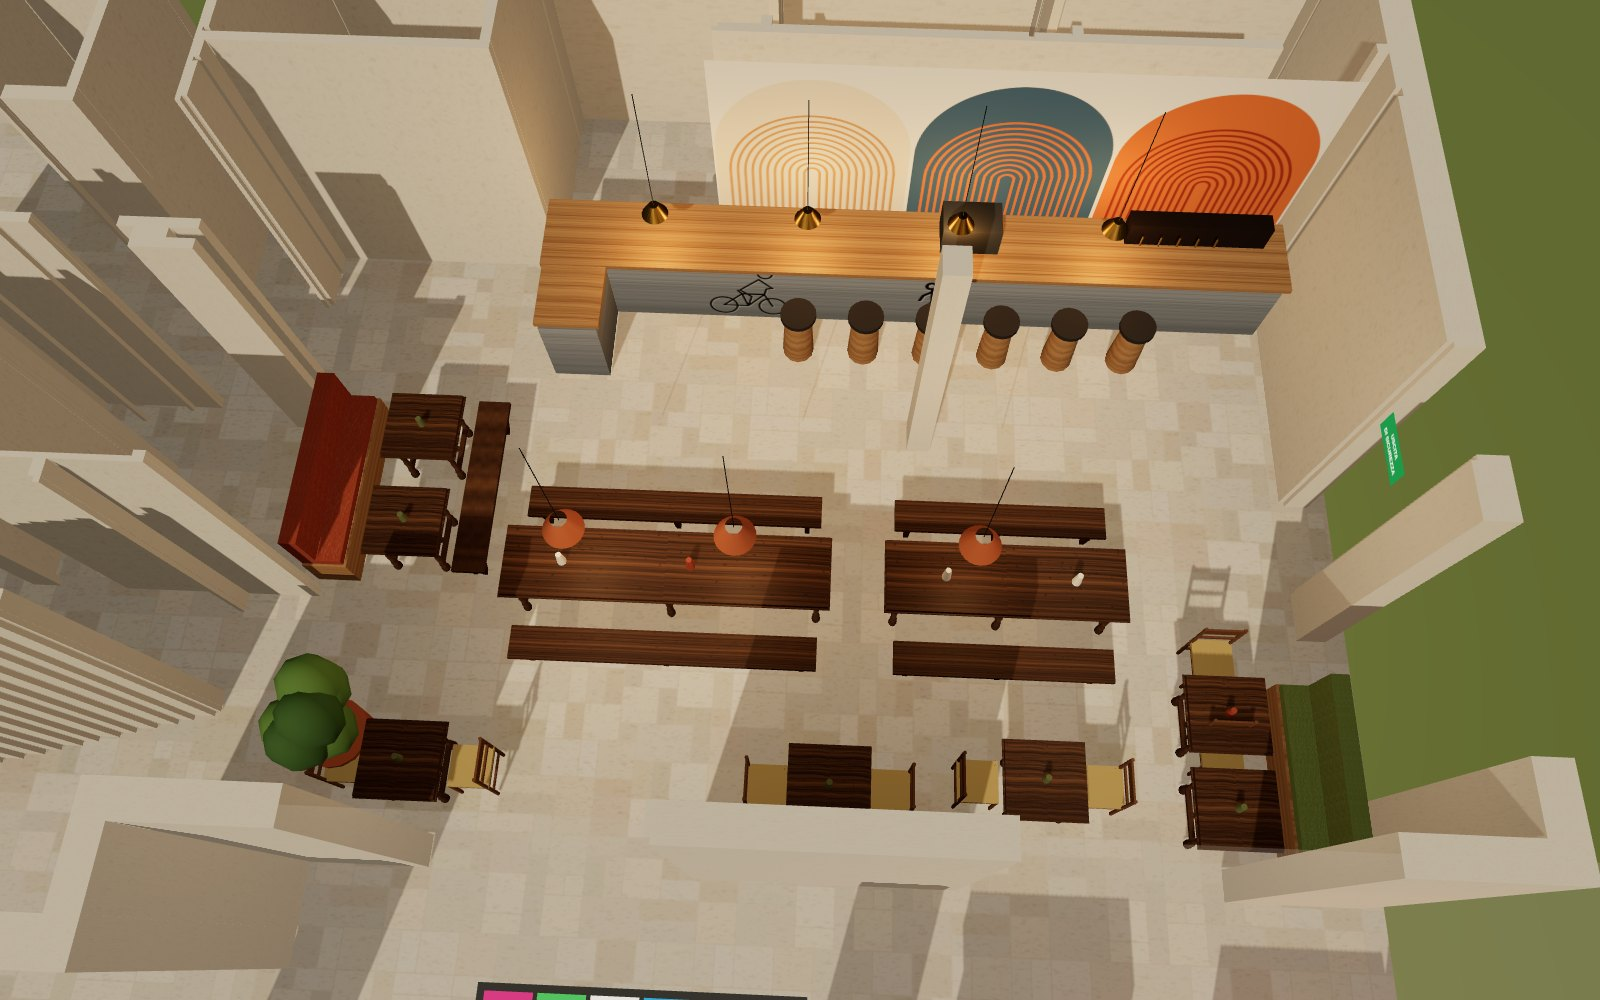
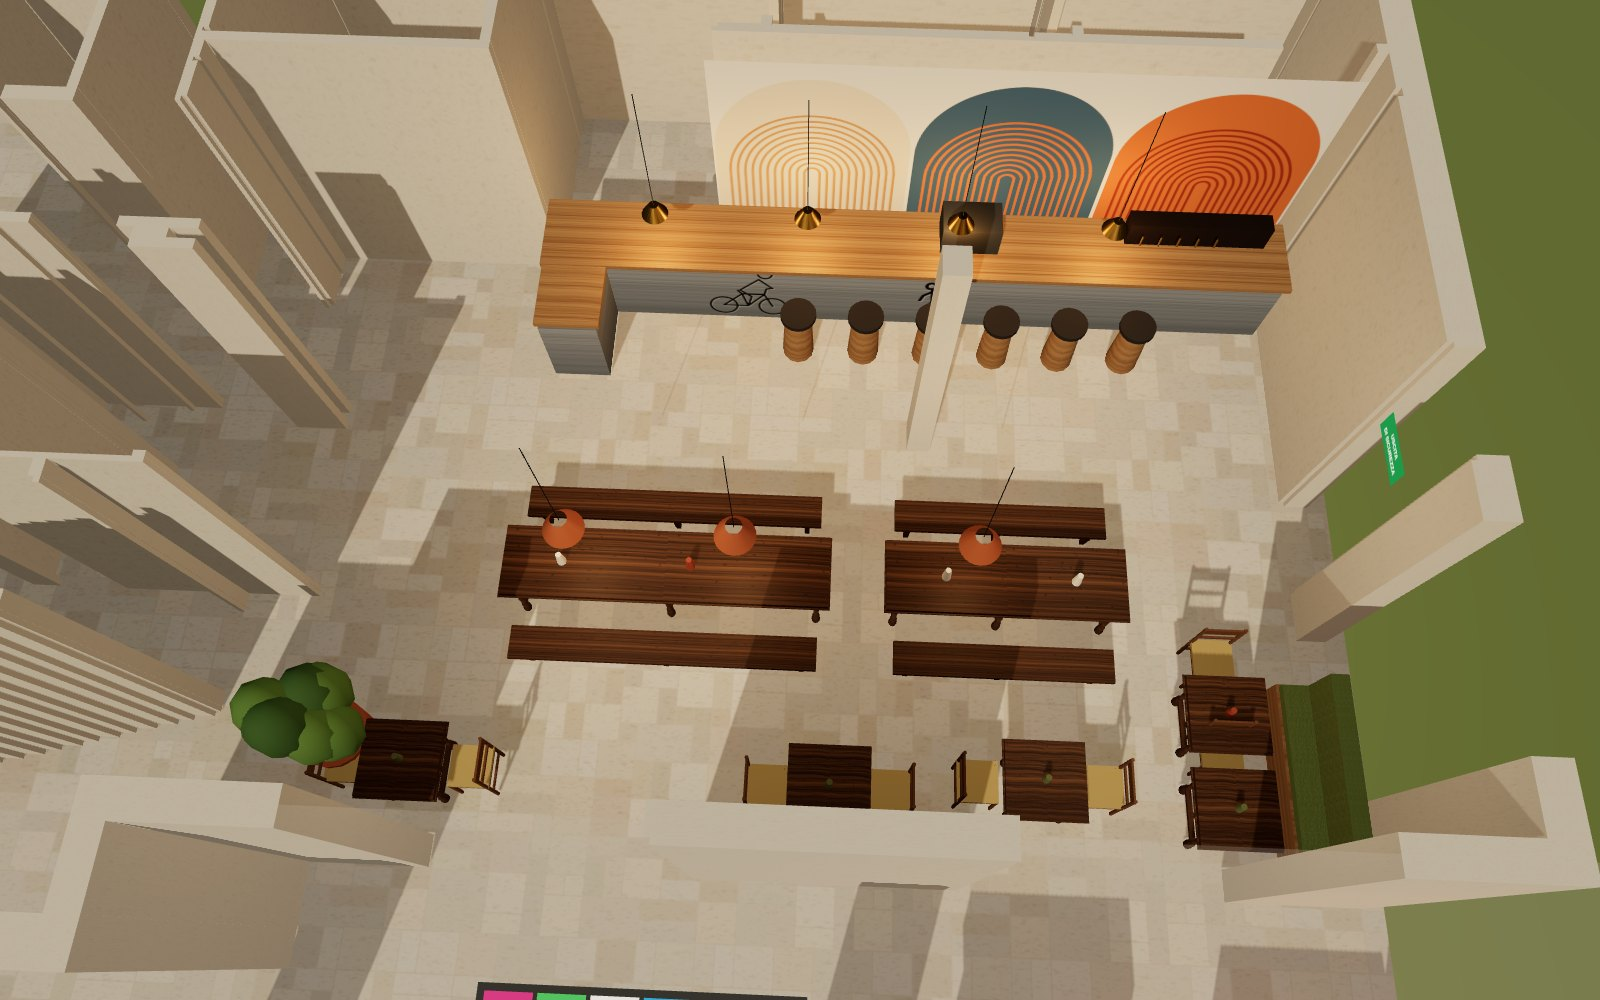
Sala: tolta la seduta rossa davanti ai bagni; pianta con i bagni segnati
Claude-Session: https://claude.ai/code/session_01QZXxqty357DcebAAL5Vpaf

Changed region(s): [[0.1562, 0.341, 0.3438, 0.589], [0.125, 0.651, 0.25, 0.775]]

diff --git a/render-3d/sala-tavoli-antichi/sorgente/pianoterra.js b/render-3d/sala-tavoli-antichi/sorgente/pianoterra.js
@@ -409,11 +409,7 @@ function antBenchZ(x, z0, z1) { box(x - 0.17, x + 0.17, 0.42, 0.47, z0, z1, antW
   // banquette along the east wall with two little tables
   const bq = boucle('#7f8f4e'); box(P(1388), P(1424), 0, 0.45, P(690), P(820), oakM); box(P(1390), P(1424), 0.45, 0.55, P(692), P(818), bq); box(P(1410), P(1424), 0.55, 1.05, P(692), P(818), bq);
   smallT(1340, 720, false); smallT(1340, 790, false);
-  // second banquette on the west wall (terracotta velvet), two little tables with a chair facing it
-  { const bq2 = boucle('#a8502c'); box(P(604), P(640), 0, 0.45, P(470), P(625), oakM); box(P(604), P(638), 0.45, 0.55, P(472), P(623), bq2); box(P(604), P(618), 0.55, 1.05, P(472), P(623), bq2);
-    for (const pz of [505, 590]) { const x = P(690), z = P(pz); antTable(x - 0.38, x + 0.38, z - 0.36, z + 0.36); cyl(x, z, 0.04, 0.76, 0.9, M('#6f7448'), 10, 0.03); }
-    // a wooden bench on the other side instead of two chairs
-    { const bx = P(690) + 0.64; antBenchZ(bx, P(470), P(625)); } }
+  // (no banquette on the west side: that is the way to the toilets, it stays free)
   for (const [x, z] of [[P(660), P(760)]]) { cyl(x, z, 0.3, 0, 0.55, M('#b9673d'), 16, 0.34); for (let i = 0; i < 7; i++) { const lf = new THREE.Mesh(new THREE.SphereGeometry(0.28, 8, 6), M(i % 2 ? '#4f6e3a' : '#6a8a45')); lf.scale.y = 1.5; lf.position.set(x + (rnd() - 0.5) * 0.5, 1.0 + rnd() * 0.9, z + (rnd() - 0.5) * 0.5); scene.add(lf); } } }
 // PORTICO as lounge: few long floor cushions, dance floor flush with the floor, piano, fireplace
 { const pm = [boucle('#a3262a'), boucle('#2f4a6e'), boucle('#1f5c5a'), boucle('#d98a2b')];
@@ -430,7 +426,7 @@ const sun = new THREE.DirectionalLight('#fff0d8', AERIAL ? 2.4 : 1.4); sun.posit
 sun.castShadow = true; sun.shadow.mapSize.set(4096, 4096); Object.assign(sun.shadow.camera, { left: -16, right: 16, top: 16, bottom: -16, near: 1, far: 60 }); sun.shadow.bias = -0.0005; scene.add(sun);
 if (!AERIAL) for (const [x, z] of [[11, 7], [16, 7], [11, 9], [16, 9]]) { const l = new THREE.PointLight('#ffe2b8', 1.6, 0, 2); l.position.set(x, 3.0, z); scene.add(l); }
 scene.background = new THREE.Color('#2b3a2f');
-const CAMS = { panche: [[17.0, 1.6, 8.8], [11.5, 0.6, 7.0], 64], rossa: [[10.6, 1.6, 8.6], [7.9, 0.6, 6.9], 62], vicino2: [[12.2, 1.35, 9.6], [11.2, 0.6, 7.6], 60], sala2: [[11.6, 1.75, 5.0], [15.5, 0.9, 9.8], 68], salatop: [[13.0, 11.5, 11.5], [12.8, 0, 6.8], 48], alto: [[9.3, 27, 17.5], [9.3, 0, 7.4], 42], bar: [[14.2, 1.6, 9.6], [14.2, 1.4, 3.6], 68], sala: [[17.6, 1.7, 9.9], [9.5, 1.1, 5.0], 66], portico: [[3.6, 1.6, 13.6], [14, 0.9, 12.6], 64] };
+const CAMS = { bagni: [[11.2, 1.6, 7.6], [6.2, 1.0, 6.9], 66], sala2: [[11.6, 1.75, 5.0], [15.5, 0.9, 9.8], 68], salatop: [[13.0, 11.5, 11.5], [12.8, 0, 6.8], 48], alto: [[9.3, 27, 17.5], [9.3, 0, 7.4], 42], bar: [[14.2, 1.6, 9.6], [14.2, 1.4, 3.6], 68], sala: [[17.6, 1.7, 9.9], [9.5, 1.1, 5.0], 66], portico: [[3.6, 1.6, 13.6], [14, 0.9, 12.6], 64] };
 const k = CAMS[VIEW] || CAMS.alto;
 const camera = new THREE.PerspectiveCamera(k[2], W / H, 0.05, 200); camera.position.set(...k[0]); camera.lookAt(...k[1]);
 renderer.render(scene, camera);
